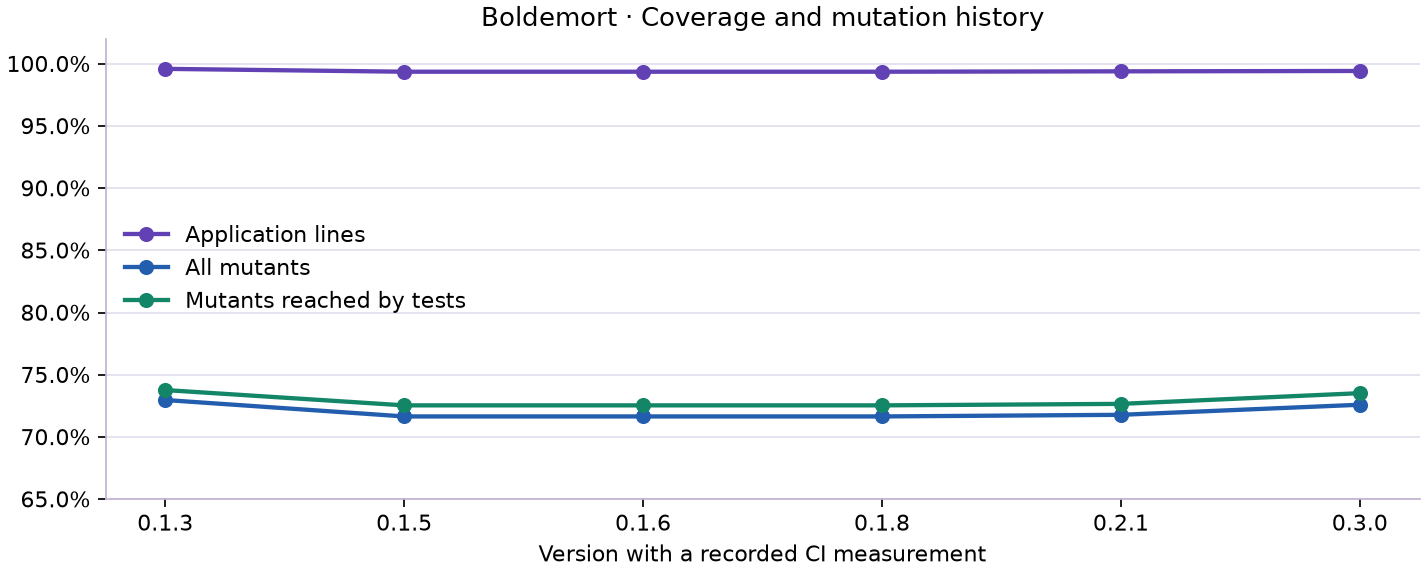
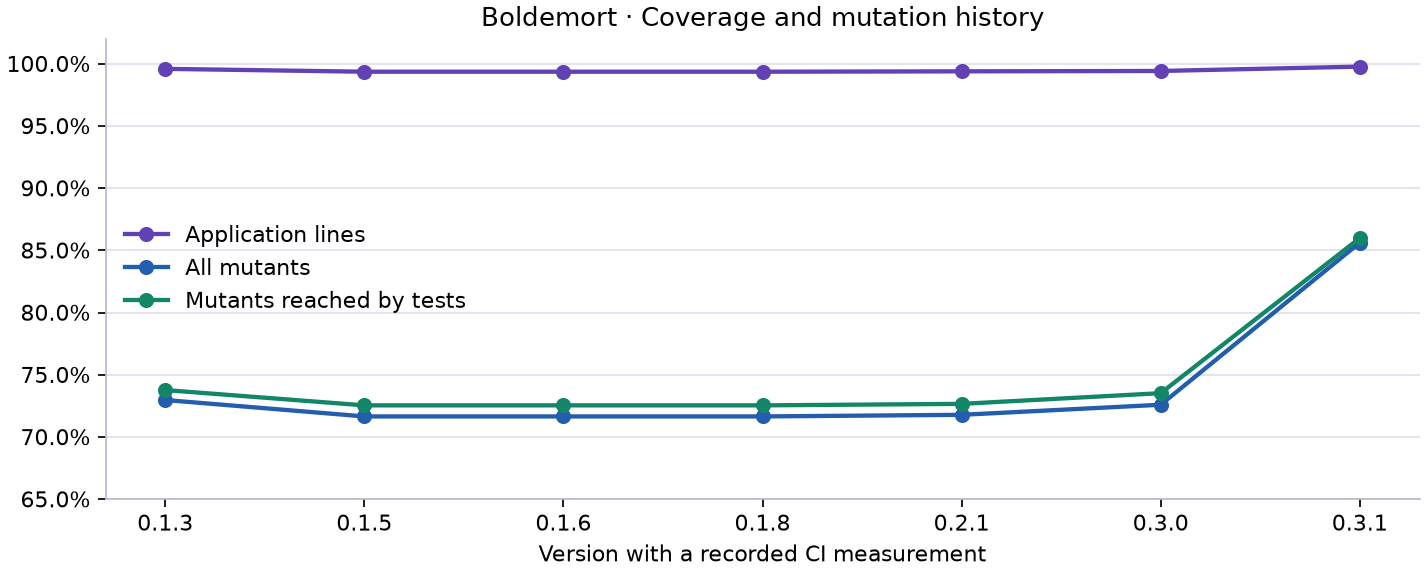
fix: preserve Markdown spans and styled emoji while editing

diff --git a/tests/regressions.test.ts b/tests/regressions.test.ts
@@ -239,6 +239,8 @@ describe('formatting boundaries', () => {
 describe('conversion fidelity', () => {
   it.each([
     ['<u>`x`</u>', '<u>`x`</u>'],
+    ['<u>one</u> and <u>two</u>', 'o͟n͟e͟ and t͟w͟o͟'],
+    ['<u>one</u-extra> two</u>', '<u>one</u-extra> two</u>'],
     ['<u>unclosed', '<u>unclosed'],
     ['<span>text</span>', '<span>text</span>'],
     ['**😀** *2* __中__', '**😀** *2* __中__'],
@@ -260,6 +262,9 @@ describe('conversion fidelity', () => {
     ['𝐀。 𝑏', '**A**。 *b*'],
     ['•\t𝐀 then • 𝐁', '-\t**A** then • **B**'],
     ['𝐀 `𝐁` 𝐂', '**A** `𝐁` **C**'],
+    ['𝐀̲ ̵̲𝐁̲', '<u>**A ̵̲B**</u>'],
+    ['  • 𝐀\n   • 𝐁\n    • 𝐂', '  - **A**\n   - **B**\n    • **C**'],
+    ['- **A**\n\n`𝐁`\n\n𝐂', '- **A**\n\n`𝐁`\n\n**C**'],
   ])('preserves Unicode %j and its protected spans', (source, expected) => {
     expect(convert(source, 'unicode')).toBe(expected);
   });
@@ -321,6 +326,8 @@ describe('writing metrics and Unicode boundaries', () => {
     ]);
     expect(analyze('    ignored ~~~\n    text', 'en').warnings).toEqual([]);
     expect(analyze('~~~\n~~~', 'en').warnings).toEqual([]);
+    expect(analyze('> ~~~\n> text\n> ~~~~~', 'en').warnings).toEqual([]);
+    expect(analyze('~~~\n\n~~~', 'en').warnings).toEqual([]);
     expect(analyze('~~~\n```', 'en').warnings).toEqual([
       { line: 1, offset: 0, key: 'fence' },
     ]);
@@ -412,6 +419,7 @@ describe('adjacent markup and mixed script', () => {
       sentences: 2,
       median: 1,
     });
+    expect(analyze('ภาษาไทย', 'th')).toMatchObject({ words: 2 });
     vi.resetModules();
     vi.stubGlobal(
       'Intl',
@@ -422,8 +430,156 @@ describe('adjacent markup and mixed script', () => {
       expect(
         fallback('I don’t skip. Next?!   Two more words.', 'en'),
       ).toMatchObject({ words: 7, sentences: 3, median: 3 });
+      expect(
+        fallback('a is rock’n’roll.   It’s neat?!  Sure.', 'en'),
+      ).toMatchObject({
+        words: 6,
+        sentences: 3,
+        median: 2,
+      });
+      expect(fallback('😀 😀', 'en')).toMatchObject({
+        words: 0,
+        sentences: 0,
+      });
     } finally {
       vi.unstubAllGlobals();
+    }
+  });
+});
+
+describe('editing existing styles and emoji', () => {
+  it.each([
+    ['***one*** ', '***one*** **two**'],
+    ['<u>**one**</u> ', '<u>**one**</u> **two**'],
+    ['**one** ', '**one two**'],
+    ['**one_** ', '**one_ two**'],
+    ['**!** ', '**! two**'],
+    ['**one** and *other* ', '**one** and *other* **two**'],
+    ['~~one~~ ', '~~one~~ **two**'],
+  ])('protects existing Markdown delimiters after %j', (text, expected) => {
+    const point = text.length;
+    const change = formatTyping(
+      draft(text, point, point),
+      'two',
+      new Set(['bold']),
+    );
+    const result =
+      text.slice(0, change.start) + change.value + text.slice(change.end);
+    expect(result).toBe(expected);
+  });
+
+  it('continues typing after punctuation inside an armed wrapper', () => {
+    const text = '**!**';
+    const caret = text.length - 2;
+    expect(
+      formatTyping(draft(text, caret, caret), 'x', new Set(['bold'])),
+    ).toEqual({ start: caret, end: caret, value: 'x' });
+  });
+
+  it.each([
+    ['<u>one</u> ', ['underline'], '<u>one two</u>'],
+    ['~~***one***~~ ', ['bold', 'italic', 'strike'], '~~***one two***~~'],
+  ] as const)(
+    'extends the armed wrapper in %j across a space',
+    (text, active, expected) => {
+      const change = formatTyping(
+        draft(text, text.length, text.length),
+        'two',
+        new Set(active),
+      );
+      expect(text.slice(0, change.start) + change.value).toBe(expected);
+      expect(change.caret).toBe(expected.indexOf('two') + 3);
+    },
+  );
+
+  it('starts a new undo group when typing resumes after undo', () => {
+    const doc = new Document();
+    edit(doc, 'one', 3, 'insertText');
+    expect(doc.undo()).toBe(true);
+    edit(doc, 'two', 3, 'insertText');
+    expect(doc.canRedo).toBe(false);
+    expect(doc.undo()).toBe(true);
+    expect(doc.frame.text).toBe('');
+  });
+
+  it('snaps a caret at a tie to the previous Unicode grapheme boundary', () => {
+    const doc = new Document();
+    doc.switchTo('markdown');
+    doc.edit('**ABCD**', { start: 1, end: 7 });
+    doc.switchTo('unicode');
+    expect(doc.frame).toMatchObject({ text: '𝐀𝐁𝐂𝐃', start: 0, end: 6 });
+  });
+
+  it('retains both projected spellings when inserting at their shared boundary', () => {
+    const doc = markdownDraft('__a__<u>b</u>');
+    expect(doc.frame.text).toBe('𝐚b͟');
+    edit(doc, '𝐚!b͟', 3, 'insertText');
+    expect(doc.output('markdown')).toBe('__a__!<u>b</u>');
+    expect(doc.undo()).toBe(true);
+    expect(doc.output('markdown')).toBe('__a__<u>b</u>');
+    expect(doc.redo()).toBe(true);
+    edit(doc, '𝐚!?b͟', 4, 'insertText');
+    expect(doc.undo()).toBe(true);
+    expect(doc.output('markdown')).toBe('__a__!<u>b</u>');
+  });
+
+  it('preserves complete flag and emoji graphemes when native segmentation is unavailable', async () => {
+    vi.resetModules();
+    vi.stubGlobal(
+      'Intl',
+      Object.create(Intl, { Segmenter: { value: undefined } }),
+    );
+    try {
+      const { graphemes: fallback, styleUnicode: styleFallback } =
+        await import('../src/unicode.ts');
+      const source = '🇩🇪 👩🏽 👩🏽💻\r\n🇫🇷';
+      const styled = '🇩🇪͟ ͟👩🏽͟ ͟👩🏽💻͟\r\n🇫🇷͟';
+      expect(styleFallback(source, ['underline'])).toBe(styled);
+      expect(styleFallback(styled, ['underline'], true)).toBe(source);
+      expect([...fallback(styled)].map(({ segment }) => segment)).toEqual([
+        '🇩🇪͟',
+        ' ͟',
+        '👩🏽͟',
+        ' ͟',
+        '👩🏽💻͟',
+        '\r\n',
+        '🇫🇷͟',
+      ]);
+      expect([...fallback('🇦🇧🇩\r\nA')].map(({ segment }) => segment)).toEqual([
+        '🇦🇧',
+        '🇩',
+        '\r\n',
+        'A',
+      ]);
+    } finally {
+      vi.unstubAllGlobals();
+    }
+  });
+
+  it('keeps literal conversion styles through edits beside protected ranges', () => {
+    const initial = '__left__ `code` <u>right</u>';
+    const original = '𝐥𝐞𝐟𝐭 `code` r͟i͟g͟h͟t͟';
+    for (const location of [
+      0,
+      original.indexOf('`'),
+      original.lastIndexOf('`') + 1,
+      original.length,
+    ]) {
+      const doc = markdownDraft(initial);
+      expect(doc.output('unicode')).toBe(original);
+      const expected = new Map([
+        [0, '!__left__ `code` <u>right</u>'],
+        [original.indexOf('`'), '__left__ !`code` <u>right</u>'],
+        [original.lastIndexOf('`') + 1, '__left__ `code`! <u>right</u>'],
+        [original.length, '__left__ `code` <u>right</u>!'],
+      ]);
+      edit(doc, original.slice(0, location) + '!' + original.slice(location));
+      expect(doc.output('markdown')).toBe(expected.get(location));
+      doc.switchTo('unicode');
+      doc.undo();
+      expect(doc.output('markdown')).toBe(initial);
+      expect(doc.undo()).toBe(true);
+      expect(doc.frame.mode).toBe('markdown');
     }
   });
 });

diff --git a/src/document.ts b/src/document.ts
@@ -310,10 +310,10 @@ export function formatTyping(
 ): Replacement {
   const { text, start, end, mode } = frame;
   // Avoid parsing a long prose draft on each keystroke when it has no markup.
-  const { changes, protectedRanges } =
+  const { formattingRanges, protectedRanges } =
     /[`~#<>[\]!*_|:]|^(?: {4}|\t)|^ {0,3}(?:[-+>]|\d+[.)])[ \t]/mu.test(text)
       ? inspectMarkdown(text)
-      : { changes: [], protectedRanges: [] };
+      : { formattingRanges: [], protectedRanges: [] };
   if (
     protectedRanges.some((range) => start > range.start && start < range.end)
   ) {
@@ -330,10 +330,25 @@ export function formatTyping(
   const open = wrapMarkdown('\0', active).split('\0');
   const prefix = open[0]!;
   const suffix = open[1]!;
+  function matchesSpan(part: (typeof formattingRanges)[number]) {
+    const raw = text.slice(part.start, part.end);
+    if (!raw.startsWith(prefix) || !raw.endsWith(suffix)) return false;
+    // The delimiter run for ***bold italic*** also starts and ends with **.
+    // Only move the closing delimiter if its run matches the armed wrapper.
+    const marker = suffix[0];
+    const closing = raw.length - suffix.length;
+    return (
+      start >= part.start + prefix.length &&
+      (!marker ||
+        !'*~'.includes(marker) ||
+        (raw[prefix.length] !== marker && raw[closing - 1] !== marker))
+    );
+  }
   const inside =
     start === end &&
-    text.startsWith(suffix, end) &&
-    text.lastIndexOf(prefix, start - 1) >= 0;
+    formattingRanges.some(
+      (part) => part.end === end + suffix.length && matchesSpan(part),
+    );
   if (inside && !input.trim()) {
     return {
       start: end + suffix.length,
@@ -350,11 +365,8 @@ export function formatTyping(
     const previousEnd = start - (gap?.length ?? 0);
     if (
       gap &&
-      changes.some(
-        (part) =>
-          part.end === previousEnd &&
-          text.startsWith(prefix, part.start) &&
-          text.slice(previousEnd - suffix.length, previousEnd) === suffix,
+      formattingRanges.some(
+        (part) => part.end === previousEnd && matchesSpan(part),
       )
     ) {
       const closing = previousEnd - suffix.length;

diff --git a/src/markdown.ts b/src/markdown.ts
@@ -80,6 +80,7 @@ function renderInline(
 }
 type MarkdownAnalysis = {
   changes: Change[];
+  formattingRanges: Positioned[];
   protectedRanges: Positioned[];
   literal: boolean;
 };
@@ -88,6 +89,7 @@ export function inspectMarkdown(
   lineStyles = defaultLineStyles,
 ): MarkdownAnalysis {
   const changes: Change[] = [];
+  const formattingRanges: Positioned[] = [];
   const protectedRanges: Positioned[] = [];
   let literal = false;
   const visit = (nodes: Node[]) => {
@@ -108,6 +110,8 @@ export function inspectMarkdown(
             new Set(['underline']),
             lineStyles,
           );
+          if (value !== undefined)
+            formattingRanges.push({ start: range.start, end: span(end).end });
           if (value !== undefined && /\S/u.test(value)) {
             changes.push({ start: range.start, end: span(end).end, value });
             index = closing;
@@ -117,6 +121,7 @@ export function inspectMarkdown(
       }
       if (emphasis.has(node.type)) {
         const value = inline(node, source, new Set(), lineStyles);
+        if (value !== undefined) formattingRanges.push(range);
         if (
           value !== undefined &&
           value !==
@@ -154,7 +159,7 @@ export function inspectMarkdown(
     }
   };
   visit(parse(source).children);
-  return { changes, protectedRanges, literal };
+  return { changes, formattingRanges, protectedRanges, literal };
 }
 
 function unicodeChanges(source: string) {

diff --git a/tests/editor.spec.ts b/tests/editor.spec.ts
@@ -91,6 +91,20 @@ test('a reload opens a fresh draft', async ({ page }) => {
   await expect(draft).toHaveValue('');
 });
 
+test('armed bold preserves a previous bold-italic span', async ({ page }) => {
+  const editor = page.locator('#editor');
+  await page.getByRole('button', { name: 'Markdown', exact: true }).click();
+  await editor.fill('***one*** ');
+  await page.getByRole('button', { name: 'Bold', exact: true }).click();
+  await editor.pressSequentially('!two');
+  await expect(editor).toHaveValue('***one*** **!two**');
+  await editor.fill('');
+  await editor.pressSequentially('!');
+  await page.getByRole('button', { name: 'Bold', exact: true }).click();
+  await editor.pressSequentially('plain');
+  await expect(editor).toHaveValue('**!**plain');
+});
+
 test('keyboard formatting, protected syntax, bullets and native history events', async ({
   page,
 }) => {

diff --git a/src/unicode.ts b/src/unicode.ts
@@ -77,7 +77,7 @@ export function* graphemes(text: string): Iterable<Grapheme> {
     return;
   }
   const clusters =
-    /(?:\p{Regional_Indicator}{1,2}|[^\u200d]\p{M}*(?:\p{Emoji_Modifier})?(?:\u200d[^\u200d]\p{M}*(?:\p{Emoji_Modifier})?)*)|[\s\S]/gu;
+    /\r\n|\p{Regional_Indicator}{1,2}\p{M}*|[^\u200d\r\n]\p{M}*(?:\p{Emoji_Modifier}\p{M}*)?(?:\u200d[^\u200d\r\n]\p{M}*(?:\p{Emoji_Modifier}\p{M}*)?)*|[\s\S]/gu;
   for (const match of text.matchAll(clusters))
     yield { segment: match[0], index: match.index };
 }

diff --git a/src/main.ts b/src/main.ts
@@ -256,7 +256,7 @@ function toggle(style: Style) {
     if (armed.has(style)) {
       // Leave any existing Markdown closing delimiters before continuing.
       if (frame.mode === 'markdown') {
-        const last = inspectMarkdown(frame.text).changes.find(
+        const last = inspectMarkdown(frame.text).formattingRanges.find(
           (part) => part.start < frame.end && part.end > frame.end,
         );
         if (

diff --git a/README.md b/README.md
@@ -3,7 +3,7 @@
 [![CI](https://github.com/marcelpetrick/Boldemort/actions/workflows/ci.yml/badge.svg?branch=main)](https://github.com/marcelpetrick/Boldemort/actions/workflows/ci.yml)
 [![GitHub Pages](https://github.com/marcelpetrick/Boldemort/actions/workflows/pages.yml/badge.svg)](https://github.com/marcelpetrick/Boldemort/actions/workflows/pages.yml)
 [![Release pipeline](https://github.com/marcelpetrick/Boldemort/actions/workflows/release.yml/badge.svg)](https://github.com/marcelpetrick/Boldemort/actions/workflows/release.yml)
-[![Version 0.3.1](https://img.shields.io/badge/version-0.3.1-6241c2)](docs/CHANGELOG.md)
+[![Version 0.3.2](https://img.shields.io/badge/version-0.3.2-6241c2)](docs/CHANGELOG.md)
 [![License GPL v3 or later](https://img.shields.io/badge/license-GPLv3%20or%20later-blue.svg)](LICENSE)
 [![TypeScript](https://img.shields.io/badge/TypeScript-6-3178c6?logo=typescript&logoColor=white)](https://www.typescriptlang.org/)
 [![Vite](https://img.shields.io/badge/Vite-8-646cff?logo=vite&logoColor=white)](https://vite.dev/)
@@ -138,7 +138,7 @@ creating a GitHub release.
 
 ![Tracked source and test lines by area and version](media/code-history.png)
 
-The coverage chart uses published CI measurements through v0.3.0. The data
+The coverage chart uses published CI measurements through v0.3.1. The data
 file records run IDs for each sample. The code chart counts physical lines
 in tracked app files and tests at each version through the same revision.
 It excludes dependencies, generated output, and documentation.

diff --git a/docs/PLAN.md b/docs/PLAN.md
@@ -56,3 +56,7 @@
 - Reviewed surviving mutants from the 72.59% baseline. Added regression tests
   for externally observable editing, conversion, and analysis behavior. Keep
   the same mutation scope and enforce an 80% overall minimum.
+- From the 85.62% baseline, reproduce and fix armed typing beside other
+  Markdown styles and Unicode line styling without `Intl.Segmenter`.
+  Verify compatible typing continuation, styled emoji round-trips, and undo
+  before rerunning mutation and the release checks.

diff --git a/docs/CHANGELOG.md b/docs/CHANGELOG.md
@@ -1,5 +1,13 @@
 # Changelog
 
+## 0.3.2
+
+- Preserve nearby Markdown styling when typing with an armed format. Keep
+  punctuation-only spans editable and move outside them when formatting ends.
+- Keep styled flags, skin-tone emoji, and CRLF together in the fallback
+  grapheme segmenter.
+- Extend regression tests for editing, undo grouping, and caret mapping.
+
 ## 0.3.1
 
 - Added regression coverage for projected editing, Markdown, Unicode, and
